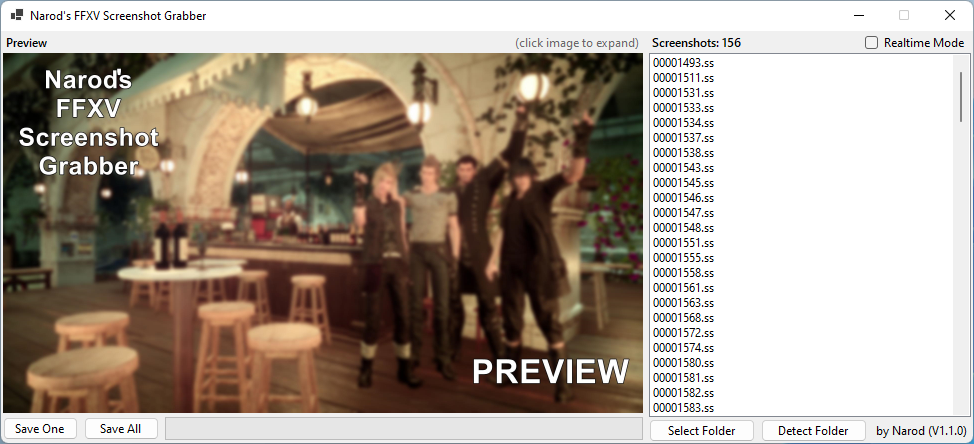
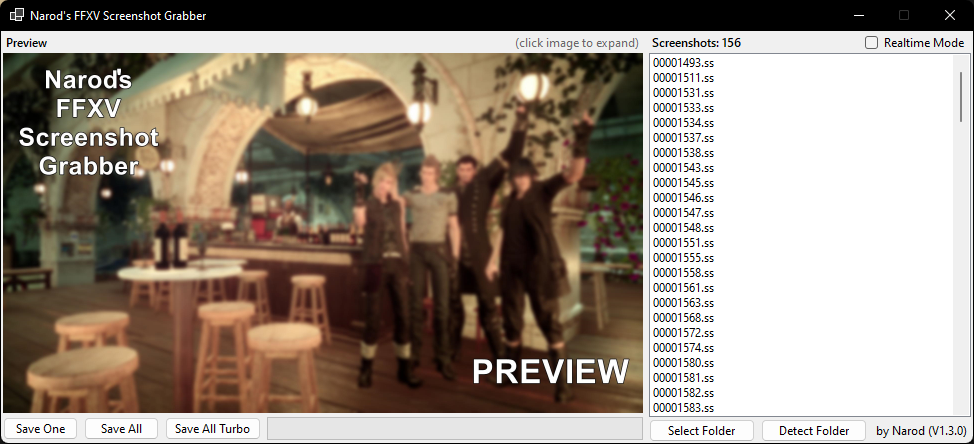
Improve UI & update version
Improves the turbo button to be more self explanatory, update version to latest and update preview images shown on Github.

Changed region(s): [[0.0, 0.0, 1.0, 0.0878], [0.0, 0.9369, 1.0, 1.0]]

diff --git a/FFXV6-Screenshot-Grabber/FFXV6-Screenshot-Grabber/mainWindow.Designer.cs b/FFXV6-Screenshot-Grabber/FFXV6-Screenshot-Grabber/mainWindow.Designer.cs
@@ -29,7 +29,6 @@
         private void InitializeComponent()
         {
             components=new System.ComponentModel.Container();
-            System.ComponentModel.ComponentResourceManager resources = new System.ComponentModel.ComponentResourceManager(typeof(mainWindow));
             screenshotListBox=new ListBox();
             previewPictureBox=new PictureBox();
             previewLabel=new Label();
@@ -109,9 +108,9 @@
             // saveAllProgressbar
             // 
             saveAllProgressbar.BackColor=SystemColors.Control;
-            saveAllProgressbar.Location=new Point(243, 386);
+            saveAllProgressbar.Location=new Point(266, 386);
             saveAllProgressbar.Name="saveAllProgressbar";
-            saveAllProgressbar.Size=new Size(399, 23);
+            saveAllProgressbar.Size=new Size(376, 23);
             saveAllProgressbar.Step=1;
             saveAllProgressbar.TabIndex=5;
             helpTooltip.SetToolTip(saveAllProgressbar, "This progress bar shows the progress of the current 'Save All' task.");
@@ -213,10 +212,10 @@
             saveAllTBtn.FlatStyle=FlatStyle.System;
             saveAllTBtn.Location=new Point(164, 386);
             saveAllTBtn.Name="saveAllTBtn";
-            saveAllTBtn.Size=new Size(75, 23);
+            saveAllTBtn.Size=new Size(96, 23);
             saveAllTBtn.TabIndex=12;
-            saveAllTBtn.Text="Save All (T)";
-            helpTooltip.SetToolTip(saveAllTBtn, resources.GetString("saveAllTBtn.ToolTip"));
+            saveAllTBtn.Text="Save All Turbo";
+            helpTooltip.SetToolTip(saveAllTBtn, "This button saves all screenshots in the list to a chosen location.\r\n\r\nIt does this in \"Turbo\" mode, which speeds up the conversion\r\nsignificantly (depends on PC speed, can be up to ~100x).");
             saveAllTBtn.UseVisualStyleBackColor=true;
             saveAllTBtn.Click+=saveAllTBtn_Click;
             // 
